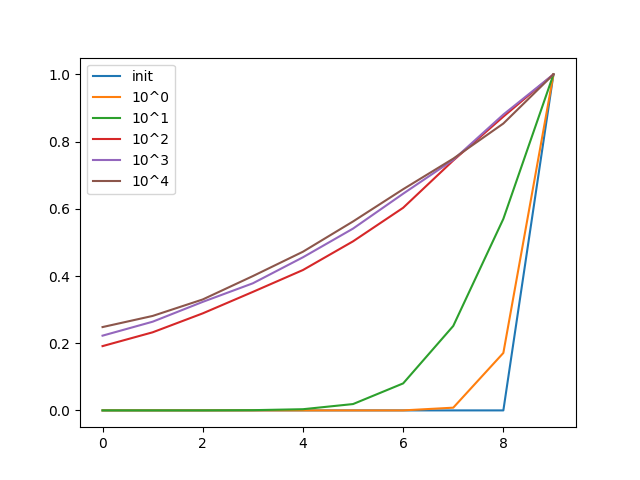
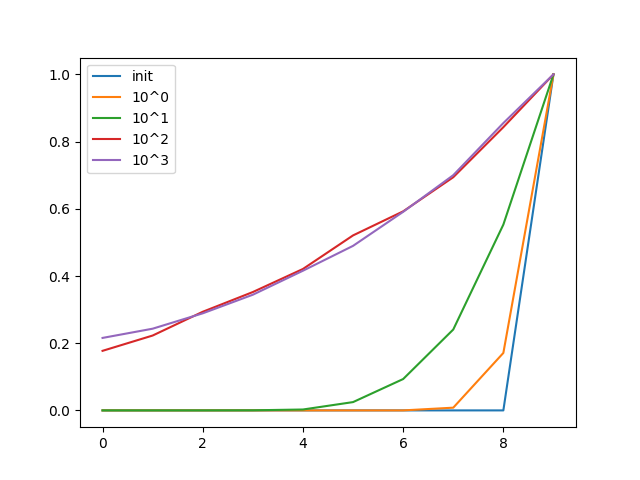
refactoring code, divided into separate py
1. mazemaking py
TODO : another mazes like 2D or circulr function

2. sr py : containg SR model updating functions.

3. test py: testing separated py file

diff --git a/1D_maze_test_SR_model.py b/1D_maze_test_SR_model.py
@@ -5,17 +5,16 @@ import copy
 import numpy as np
 import matplotlib.pyplot as plt
 from tqdm import tqdm
+import mazemaking as mm
+import sr
 
 # simple 1D maze with prefered direction or random policy
 
 # maze env
 
-def make_1D(length):
-    return np.ones((1, length))
-
 MAZE_LENGTH = 10
 
-maze = make_1D(MAZE_LENGTH)
+maze = mm.make_1D(MAZE_LENGTH)
 
 # action on 1D maze
 ACTION_LT = 0
@@ -58,28 +57,7 @@ def choose_action(state, prefered = True):
         assert False
     return action
 
-# for matrix M
-def state_to_idx(state, next_state, all_states):
-    for idx in range(len(all_states)):
-        if all_states[idx] == state:
-            idx_state = idx  
-    for idx in range(len(all_states)):
-        if all_states[idx] == next_state:
-            idx_next_state = idx        
-    return idx_state, idx_next_state
 
-
-def update_SR_matrix(state, next_state, sr_matrix, all_states, alpha = alpha, \
-    gamma = gamma):
-    idx_state, idx_next_state = state_to_idx(state, next_state, all_states)
-    I = np.zeros(sr_matrix[0, :].shape)
-    I[idx_state] = 1
-    M_state_V = sr_matrix[idx_state, :]
-    M_next_state_V = sr_matrix[idx_next_state, :]
-    sr_matrix[idx_state, :] = M_state_V + alpha * (I + \
-        gamma * M_next_state_V - M_state_V)
-    sr_matrix[idx_state, idx_state] = 1
-    return sr_matrix  
 
 # prepare for SR matrix
 all_states = [[x, y] for x in range(maze.shape[0]) for y in range(maze.shape[1])]
@@ -90,7 +68,7 @@ history_sr_matrix = []
 
 history_exp_idx = 0
 
-for i in tqdm(range(10001)):
+for i in tqdm(range(1001)):
     state = START
     if i == 0: 
         history_sr_matrix.append(copy.deepcopy(sr_matrix[:, len(all_states)-1]))
@@ -98,7 +76,8 @@ for i in tqdm(range(10001)):
     while state != END:
         action = choose_action(state, prefered=True)
         next_state, _ = step(state, action)
-        sr_matrix = update_SR_matrix(state, next_state, sr_matrix, all_states)
+        sr_matrix = sr.update_SR_matrix(state, next_state, sr_matrix, \
+             all_states, alpha = alpha, gamma = gamma)
 
         state = next_state
 

diff --git a/sr.py b/sr.py
@@ -1,0 +1,24 @@
+import numpy as np
+
+# for matrix M
+def state_to_idx(state, next_state, all_states):
+    for idx in range(len(all_states)):
+        if all_states[idx] == state:
+            idx_state = idx  
+    for idx in range(len(all_states)):
+        if all_states[idx] == next_state:
+            idx_next_state = idx        
+    return idx_state, idx_next_state
+
+
+def update_SR_matrix(state, next_state, sr_matrix, all_states, alpha = 0.1, \
+    gamma = 0.9):
+    idx_state, idx_next_state = state_to_idx(state, next_state, all_states)
+    I = np.zeros(sr_matrix[0, :].shape)
+    I[idx_state] = 1
+    M_state_V = sr_matrix[idx_state, :]
+    M_next_state_V = sr_matrix[idx_next_state, :]
+    sr_matrix[idx_state, :] = M_state_V + alpha * (I + \
+        gamma * M_next_state_V - M_state_V)
+    sr_matrix[idx_state, idx_state] = 1
+    return sr_matrix  

diff --git a/test.py b/test.py
@@ -1,0 +1,7 @@
+import mazemaking as mm
+
+MAZE_LENGTH = 10
+
+maze = mm.make_1D(MAZE_LENGTH)
+
+print(maze)

diff --git a/mazemaking.py b/mazemaking.py
@@ -1,0 +1,4 @@
+import numpy as np
+
+def make_1D(length):
+    return np.ones((1, length))
